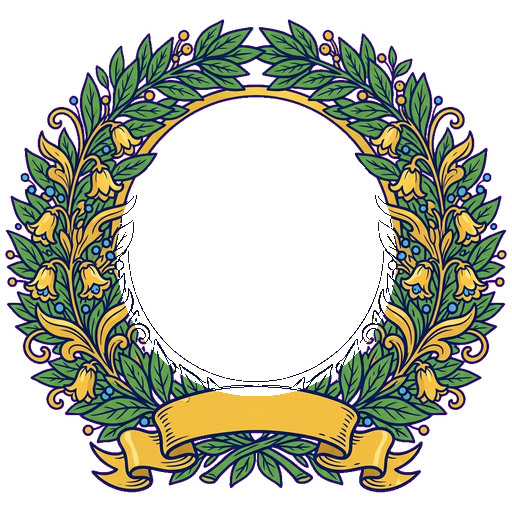
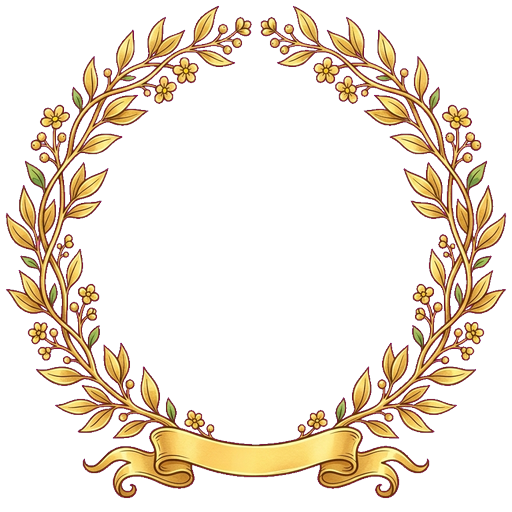
feat: re-generate Gold Laurel Wreath V4 with slender delicate golden branches and richer gold accents

diff --git a/registration.html b/registration.html
@@ -13,7 +13,7 @@
     <script src="https://cdn.tailwindcss.com?plugins=forms,container-queries"></script>
     <link href="https://fonts.googleapis.com/css2?family=Baloo+2:wght@400;600;700;800&family=Nunito:wght@400;500;600;700;800;900&family=Quicksand:wght@500;600;700&display=swap" rel="stylesheet"/>
     <link href="https://fonts.googleapis.com/css2?family=Material+Symbols+Outlined:wght,FILL@100..700,0..1&amp;display=swap" rel="stylesheet"/>
-    <link href="styles.css?v=1784767856984" rel="stylesheet"/>
+    <link href="styles.css?v=1784769168161" rel="stylesheet"/>
     <!-- html2canvas library for card export -->
     <script src="https://cdnjs.cloudflare.com/ajax/libs/html2canvas/1.4.1/html2canvas.min.js"></script>
     <script id="tailwind-config">
@@ -744,13 +744,13 @@
         <div id="map-viewport" class="w-full h-[calc(100vh-100px)] min-h-[550px] relative overflow-hidden select-none flex items-center justify-center rounded-b-[24px]">
             
             <!-- Blurred Background to cover empty side margins on wide desktop views dynamically -->
-            <div class="absolute inset-0 z-0 bg-cover bg-center filter blur-xl scale-110 opacity-50 pointer-events-none" style="background-image: url('src/assets/smurf_village_base_map_vertical.png?v=1784767856984');"></div>
+            <div class="absolute inset-0 z-0 bg-cover bg-center filter blur-xl scale-110 opacity-50 pointer-events-none" style="background-image: url('src/assets/smurf_village_base_map_vertical.png?v=1784769168161');"></div>
             
             <!-- Map Board: Aspect Ratio Locked (512x1024) -->
             <div id="map-board" class="relative w-full aspect-[1/2] shadow-inner">
                 
                 <!-- Base Map Image (Absolute fit to prevent alignment drift) -->
-                <img src="src/assets/smurf_village_base_map_vertical.png?v=1784767856984" class="absolute inset-0 w-full h-full object-fill z-0 pointer-events-none select-none">
+                <img src="src/assets/smurf_village_base_map_vertical.png?v=1784769168161" class="absolute inset-0 w-full h-full object-fill z-0 pointer-events-none select-none">
                 
                 <!-- Floating Clouds -->
                 <div class="absolute top-10 left-[5%] text-5xl opacity-20 pointer-events-none float-cloud" style="animation: floatSlow 20s linear infinite;">☁️</div>